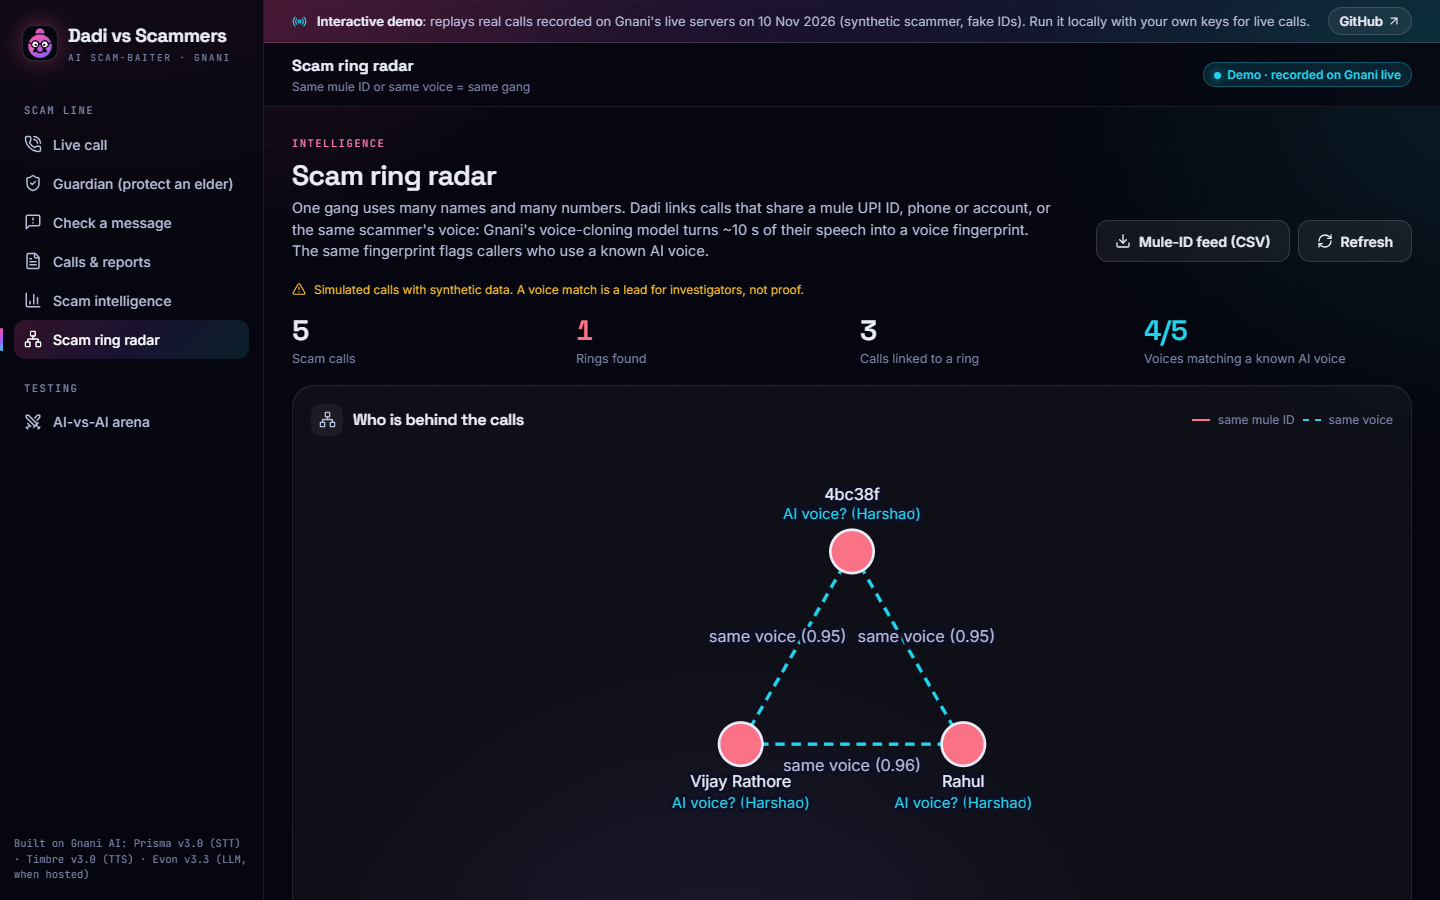
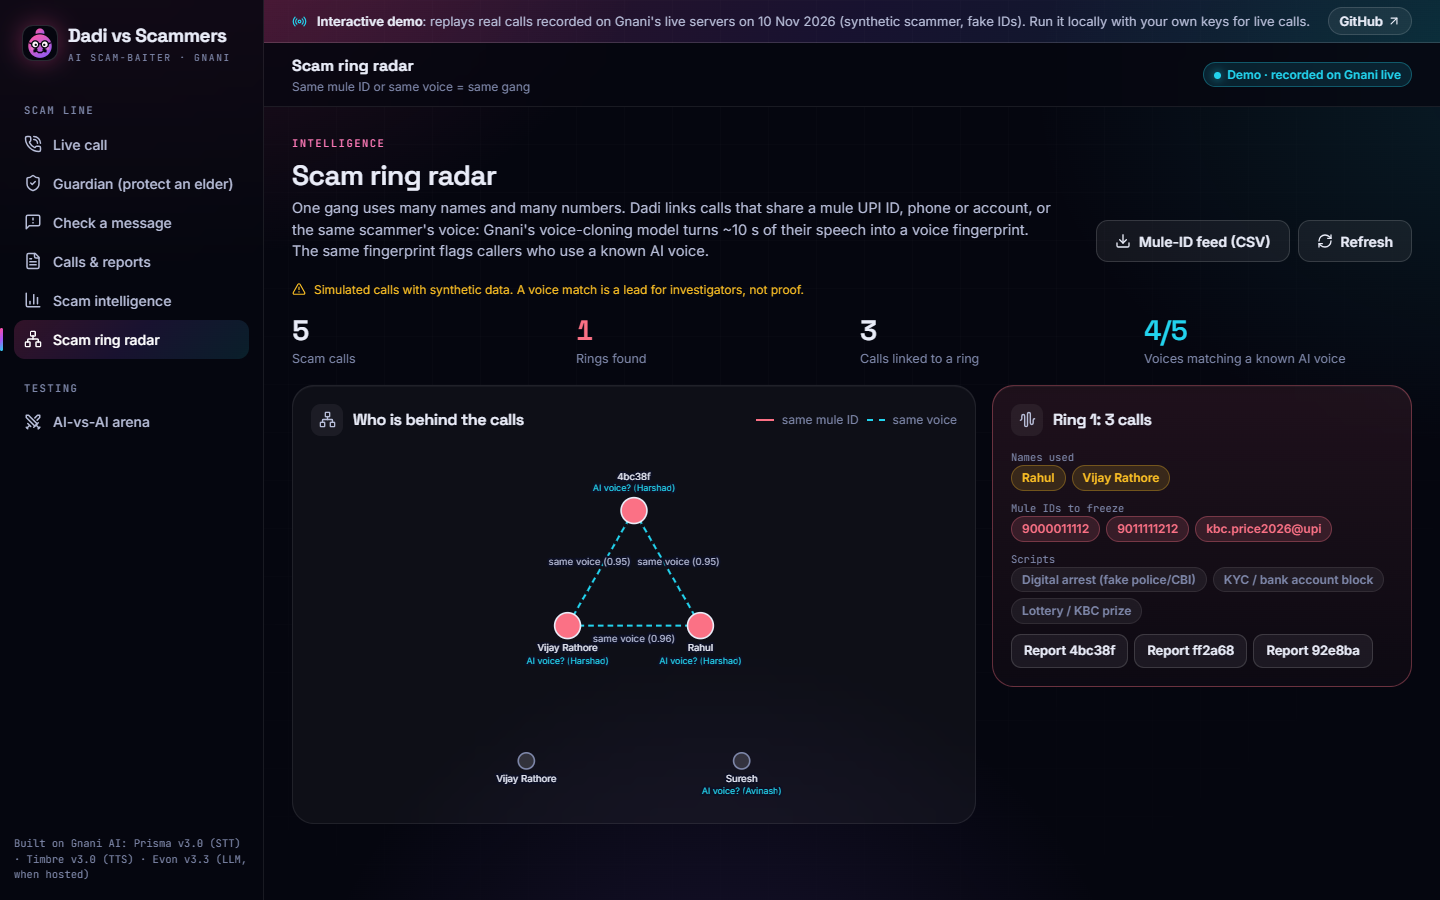
feat(rings): ring details beside the radar on wide screens, radar height capped so labels stay readable

diff --git a/frontend/src/pages/Rings.jsx b/frontend/src/pages/Rings.jsx
@@ -143,11 +143,12 @@ export default function Rings() {
         <Stat value={inRings} label="Calls linked to a ring" />
         <Stat value={`${synth.length}/${d.nodes.filter((n) => n.voiceprint).length}`} label="Voices matching a known AI voice" tone="cyan" />
       </div>
+      <div className={d.rings.length ? "split-wide" : ""}>
       <Card icon={Network} title="Who is behind the calls" right={<span className="ring-legend"><i className="id" /> same mule ID <i className="voice" /> same voice</span>}>
         {d.nodes.length ? <div className="ring-graph-wrap" ref={wrapRef}><Graph data={d} narrow={narrow} /></div> : <div className="empty">No calls yet. Run two arena calls with the same scammer voice and different scripts.</div>}
         {d.nodes.length > 0 && !d.rings.length && <div className="pill-src ring-hint">No links yet: calls join a ring when they share a mule ID or the same voice.</div>}
       </Card>
-      <div className="grid g2" style={{ marginTop: 16 }}>
+      {d.rings.length > 0 && <div className="side-col">
         {d.rings.map((r, i) => (
           <Card key={i} icon={AudioWaveform} title={`Ring ${i + 1}: ${r.calls.length} calls`} className="alert">
             <div className="stack" style={{ gap: 10 }}>
@@ -158,6 +159,7 @@ export default function Rings() {
             </div>
           </Card>
         ))}
+      </div>}
       </div>
     </>
   );

diff --git a/frontend/src/wide.css b/frontend/src/wide.css
@@ -2,6 +2,7 @@
 
 /* context column next to a main card (Calls & reports) */
 .split-wide { display: grid; gap: 16px; min-width: 0; }
+@media (max-width: 1199px) { .split-wide > .side-col { display: grid; grid-template-columns: repeat(auto-fit, minmax(min(100%, 340px), 1fr)); } }
 .side-col { display: grid; gap: 16px; align-content: start; min-width: 0; }
 .side-list { margin: 0; padding-left: 18px; display: grid; gap: 6px; color: var(--text-2); font-size: 13.5px; line-height: 1.5; }
 .mix { display: grid; gap: 10px; }
@@ -48,6 +49,7 @@
   .shell .content { max-width: 1720px; }
   .split-wide { grid-template-columns: minmax(0, 1fr) minmax(340px, 420px); align-items: start; }
   .split-wide > .side-col { position: sticky; top: 16px; }
+  .ring-graph:not(.narrow) { max-height: 560px; }
 
   /* complaint report: a two-column masonry instead of a 900 px column */
   .report { max-width: 1400px; }
